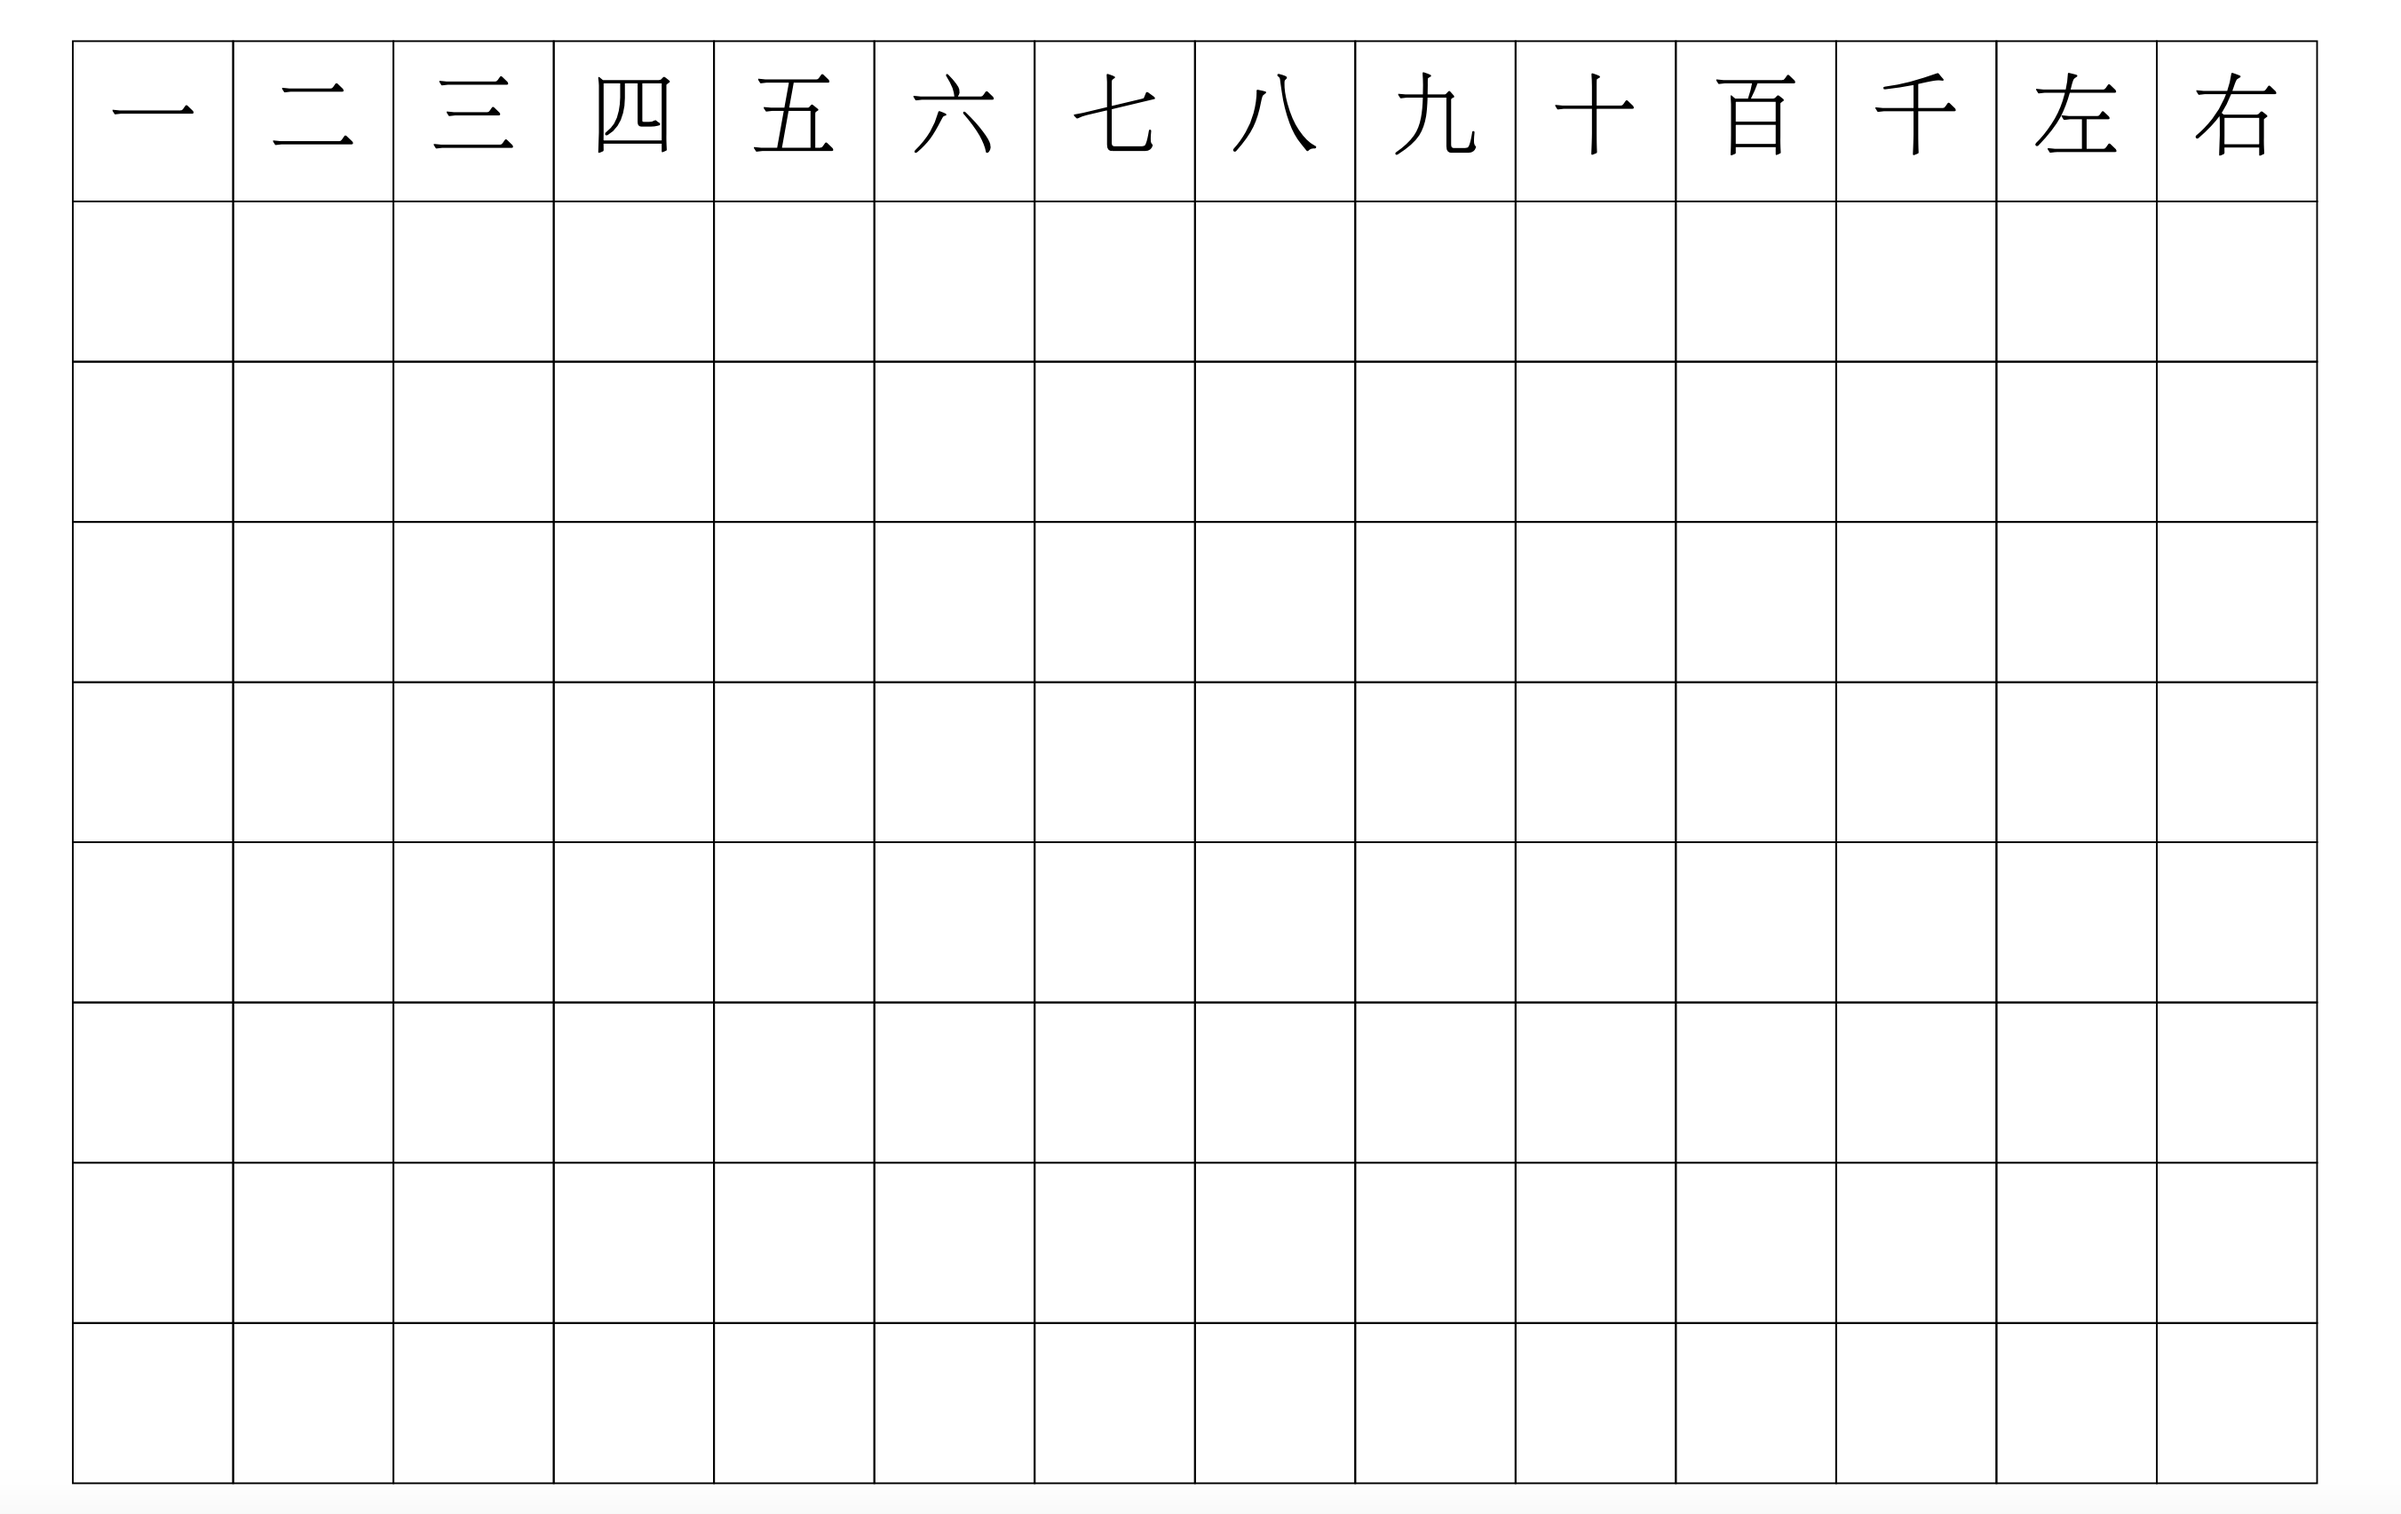
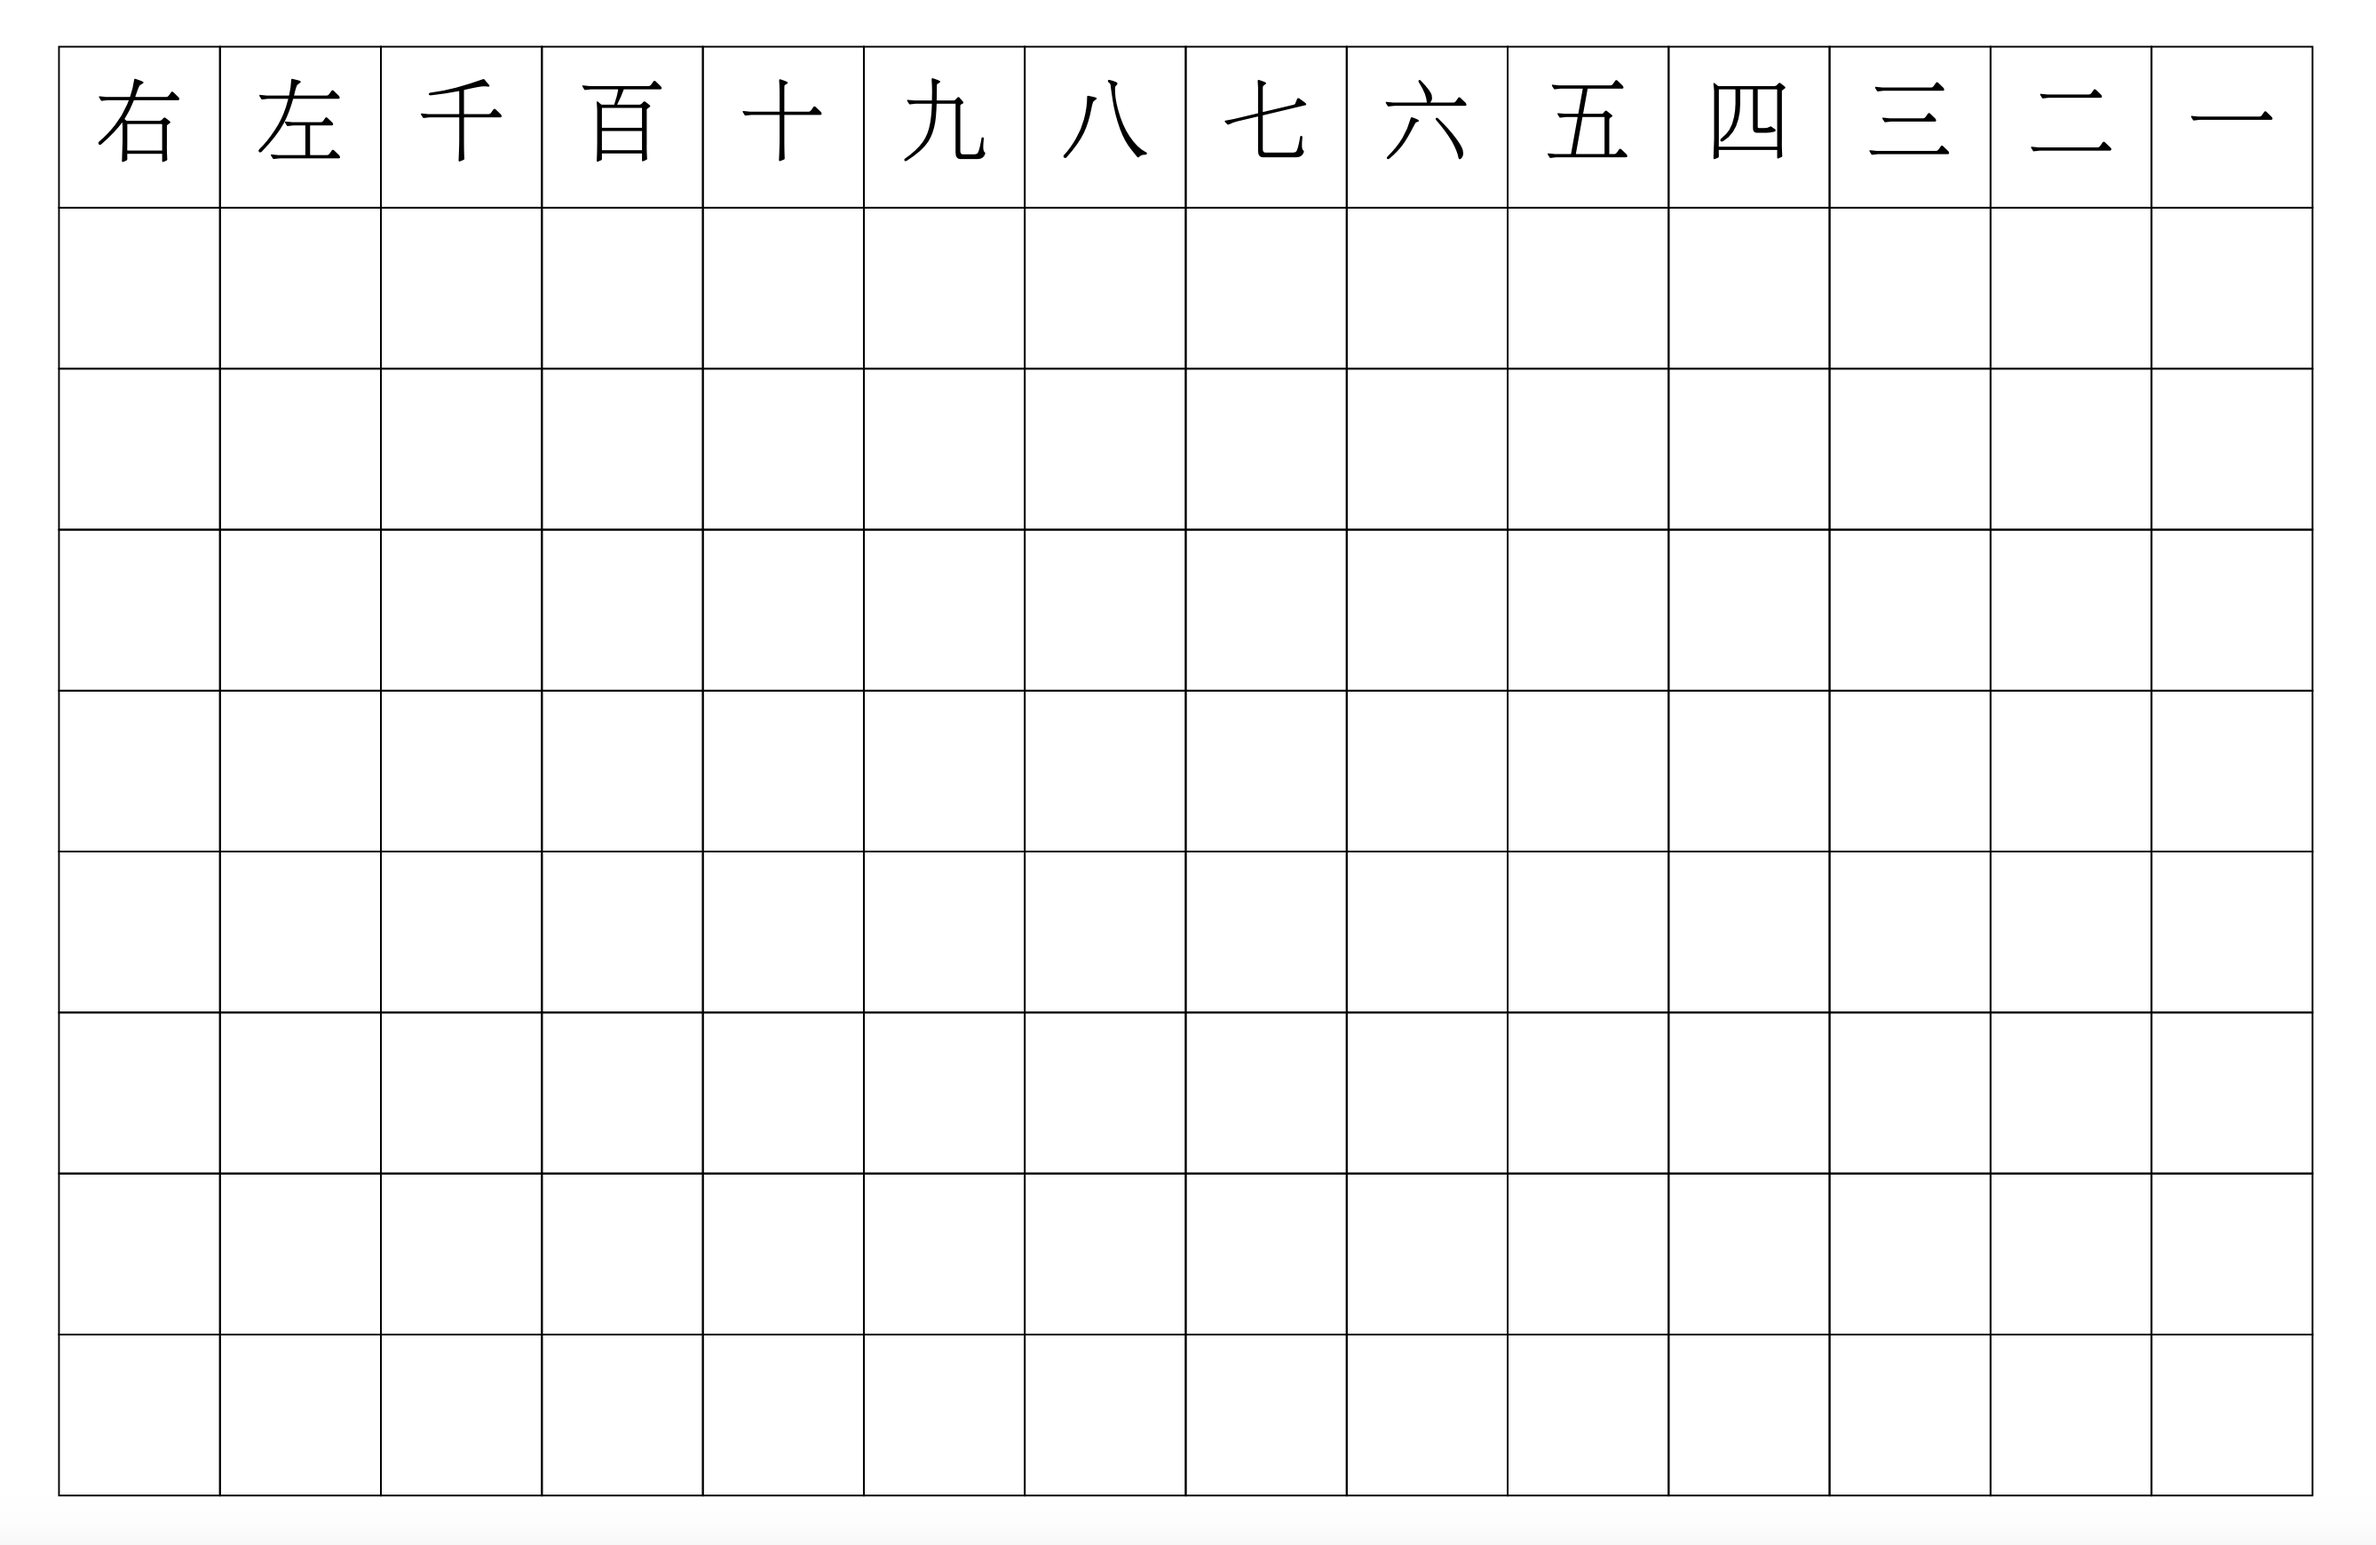
Right to left alignment

diff --git a/run.py b/run.py
@@ -3,29 +3,33 @@ from fpdf import FPDF
 
 class asian_character_worksheet_generator():
     pdf = FPDF()
+    # Basic settings
     pdf.add_font('fireflysung', '', 'fireflysung.ttf', uni=True)
     pdf.set_font("fireflysung", size=30)
     size = 19
     num_x_cell = 14
     num_y_cell = 8
-    file = "text"
+    file = "text"  # Seed filename; each line should contain the exact number of characters as defined in num_x_cell
 
     def read_file(self):
         f = open(self.file, "r")
         return f.readlines()
 
     def split(self, word):
+        # turn string into a list of character and strip off the new line character
         return list(u"{}".format(word.rstrip("\n")))
 
     def make_page(self, line):
         self.pdf.add_page(orientation='L')
         word_array = self.split(line)
-
-        for c in word_array:
+        # Reversing character order; In vertical page layout, the character is aligned
+        # from right to left
+        for c in word_array[::-1]:
             self.pdf.cell(self.size, self.size, txt=c, border=1, ln=0, align='C')
 
         self.pdf.ln()
 
+        # To print out empty grid
         for _ in range(0, self.num_y_cell):
             for _ in range(0, self.num_x_cell):
                 self.pdf.cell(self.size, self.size, border=1, ln=0, align='C')

diff --git a/README.md b/README.md
@@ -5,9 +5,12 @@
 ## Background
 As an immigrant and father of two boys living in America, I want my sons to learn my language so that they can have the chance to learn more about their culture origin. I want to share with them the novels that I have read; the music that I have listened to and the movies that I have watched. To make it happens, it is essential to teach them how to write in my language.
 
-At first I started making worksheet by using Google Doc. I had to create the layout manually (in grid format) and adjust the spacing. Then I had to type in character by character to each cell and readjust the spacing one by one. For sure I can copy and paste to save some time if I need a new wordsheet with different set of characters. Manual typing, adjusting is not an enjoyable moment and it is time consuming (Hey I want my beer time).
+At first I started making worksheet by using Google Doc. I had to create the layout manually (in grid format) and adjust the spacing. Then I had to type in character by character to each cell and readjust the spacing one by one. This project saves you time from the tedious manual effort of doing a copy and paste of a new worksheet. Also, this project automatically does all the work to adjust the column widths which is frankly not that enjoyable to do manually (Hey I want my beer time).
 
 That's the reason for me to look into an automate way to get the job done.
+
+## Benefict of Grid System
+The grid system helps someone learning the language to write the characters in the proper size and orientation. The grid system gives a worksheet for the new learner to practice writing the characters.
 
 ## Requirements
 1. [python3](https://www.python.org/downloads/)
@@ -37,8 +40,11 @@ python3 run.py
 ## Sample
 [sample worksheet](sample-worksheet.pdf)
 
+## Code Overview
+Everything is written in python in `run.py`. You can play with the font and gird size with the variables under the `# Basic settings` section. You can also try a different font to potentially make the generator works with a different language (eg. Korean Hangul).
+
 ## Contributing
-Any suggestion will be appreciated and feel free to fork the project.
+Any suggestion will be appreciated. You can simply create a pull request with your idea. Feel free to fork the project too.
 
 ## Special Thanks
-My lovely sons Tim and Hin.
+My lovely sons Tim and Hin. Also thanks TC Dan for giving valuable feedback to this README file. 
